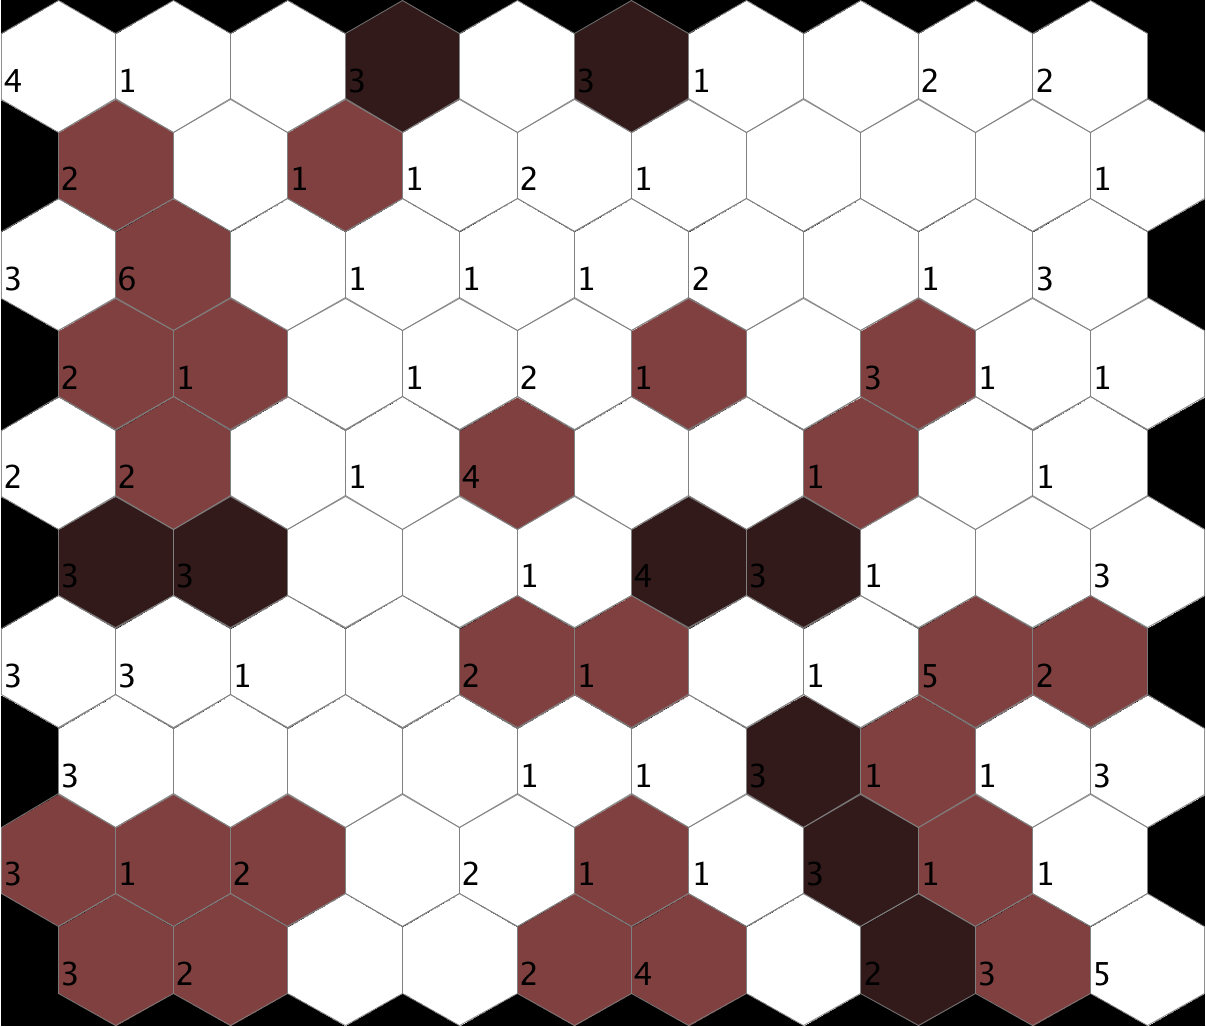
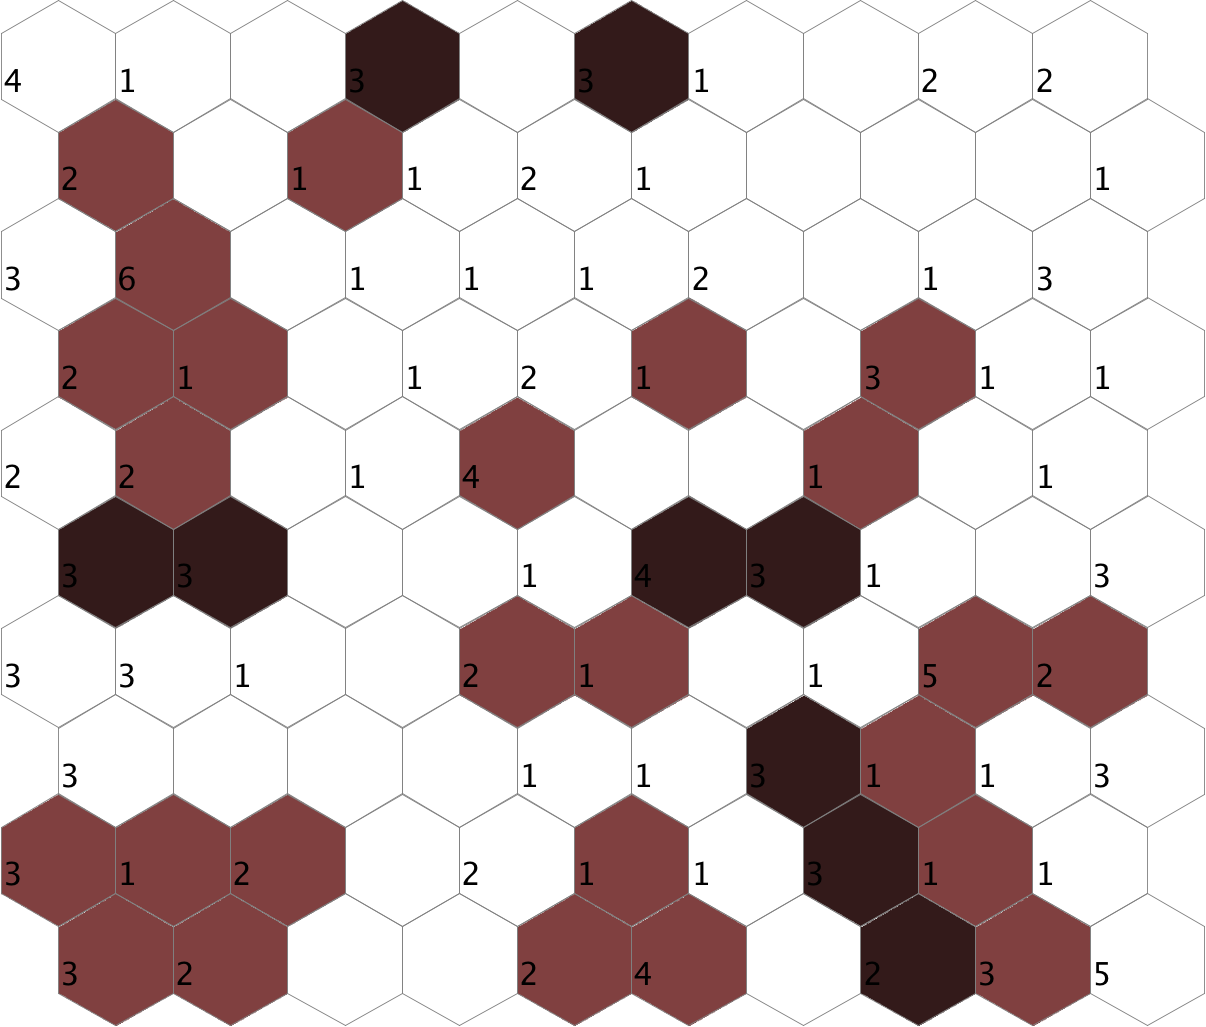
fixed topographic error background

diff --git a/ex3/src/core/at/tuwien/ifs/somtoolbox/visualization/TopographicErrorVisualizer.java b/ex3/src/core/at/tuwien/ifs/somtoolbox/visualization/TopographicErrorVisualizer.java
@@ -147,7 +147,8 @@ public class TopographicErrorVisualizer extends AbstractBackgroundImageVisualize
             }
         }
 
-        BufferedImage res = new BufferedImage(width, height, BufferedImage.TYPE_INT_RGB);
+        //BufferedImage res = new BufferedImage(width, height, BufferedImage.TYPE_INT_RGB);
+        BufferedImage res = ImageUtils.createEmptyImage(width, height);
         Graphics2D g = (Graphics2D) res.getGraphics();
 
         GridGeometry helper = gsom.getLayer().getGridGeometry();
